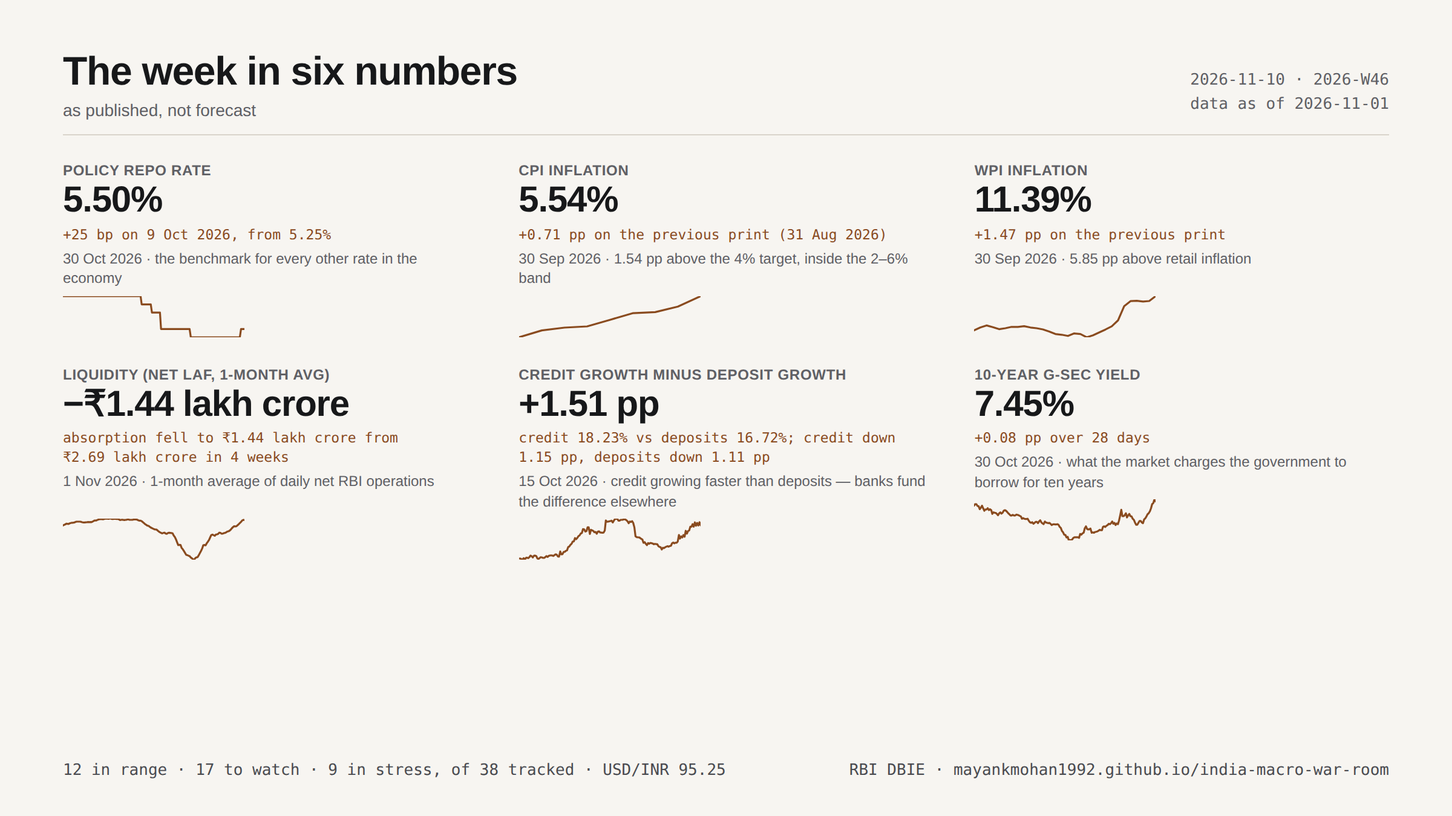
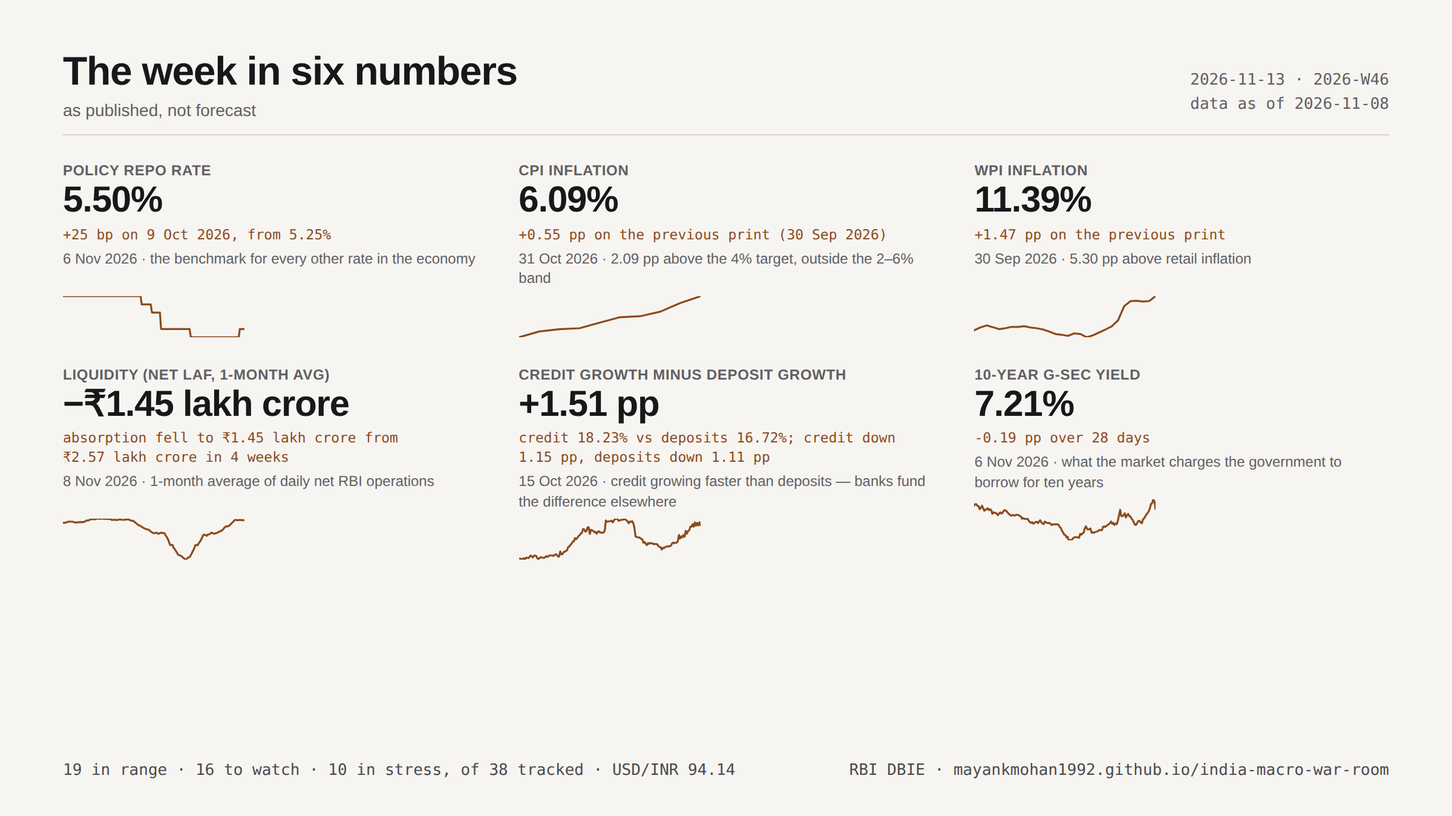
note: the week in six numbers (2026-W46)

diff --git a/notes/2026-W46.card.html b/notes/2026-W46.card.html
@@ -19,10 +19,10 @@
 </style>
 <div class="top">
   <h1>The week in six numbers<span class="sub">as published, not forecast</span></h1>
-  <div class="meta">2026-11-10 · 2026-W46<br>data as of 2026-11-01</div>
+  <div class="meta">2026-11-13 · 2026-W46<br>data as of 2026-11-08</div>
 </div>
-<div class="grid"><div class="cell"><div class="k">Policy repo rate</div><div class="v">5.50%</div><div class="d">+25 bp on 9 Oct 2026, from 5.25%</div><div class="o">30 Oct 2026 · the benchmark for every other rate in the economy</div><svg viewBox="0 0 150 34" width="150" height="34" class="spark" aria-hidden="true"><path d="M0.0 0.0 L0.9 0.0 L1.9 0.0 L2.8 0.0 L3.8 0.0 L4.7 0.0 L5.7 0.0 L6.6 0.0 L7.5 0.0 L8.5 0.0 L9.4 0.0 L10.4 0.0 L11.3 0.0 L12.3 0.0 L13.2 0.0 L14.2 0.0 L15.1 0.0 L16.0 0.0 L17.0 0.0 L17.9 0.0 L18.9 0.0 L19.8 0.0 L20.8 0.0 L21.7 0.0 L22.6 0.0 L23.6 0.0 L24.5 0.0 L25.5 0.0 L26.4 0.0 L27.4 0.0 L28.3 0.0 L29.2 0.0 L30.2 0.0 L31.1 0.0 L32.1 0.0 L33.0 0.0 L34.0 0.0 L34.9 0.0 L35.8 0.0 L36.8 0.0 L37.7 0.0 L38.7 0.0 L39.6 0.0 L40.6 0.0 L41.5 0.0 L42.5 0.0 L43.4 0.0 L44.3 0.0 L45.3 0.0 L46.2 0.0 L47.2 0.0 L48.1 0.0 L49.1 0.0 L50.0 0.0 L50.9 0.0 L51.9 0.0 L52.8 0.0 L53.8 0.0 L54.7 0.0 L55.7 0.0 L56.6 0.0 L57.5 0.0 L58.5 0.0 L59.4 0.0 L60.4 0.0 L61.3 0.0 L62.3 0.0 L63.2 0.0 L64.2 0.0 L65.1 6.8 L66.0 6.8 L67.0 6.8 L67.9 6.8 L68.9 6.8 L69.8 6.8 L70.8 6.8 L71.7 6.8 L72.6 6.8 L73.6 13.6 L74.5 13.6 L75.5 13.6 L76.4 13.6 L77.4 13.6 L78.3 13.6 L79.2 13.6 L80.2 13.6 L81.1 27.2 L82.1 27.2 L83.0 27.2 L84.0 27.2 L84.9 27.2 L85.8 27.2 L86.8 27.2 L87.7 27.2 L88.7 27.2 L89.6 27.2 L90.6 27.2 L91.5 27.2 L92.5 27.2 L93.4 27.2 L94.3 27.2 L95.3 27.2 L96.2 27.2 L97.2 27.2 L98.1 27.2 L99.1 27.2 L100.0 27.2 L100.9 27.2 L101.9 27.2 L102.8 27.2 L103.8 27.2 L104.7 27.2 L105.7 34.0 L106.6 34.0 L107.5 34.0 L108.5 34.0 L109.4 34.0 L110.4 34.0 L111.3 34.0 L112.3 34.0 L113.2 34.0 L114.2 34.0 L115.1 34.0 L116.0 34.0 L117.0 34.0 L117.9 34.0 L118.9 34.0 L119.8 34.0 L120.8 34.0 L121.7 34.0 L122.6 34.0 L123.6 34.0 L124.5 34.0 L125.5 34.0 L126.4 34.0 L127.4 34.0 L128.3 34.0 L129.2 34.0 L130.2 34.0 L131.1 34.0 L132.1 34.0 L133.0 34.0 L134.0 34.0 L134.9 34.0 L135.8 34.0 L136.8 34.0 L137.7 34.0 L138.7 34.0 L139.6 34.0 L140.6 34.0 L141.5 34.0 L142.5 34.0 L143.4 34.0 L144.3 34.0 L145.3 34.0 L146.2 34.0 L147.2 27.2 L148.1 27.2 L149.1 27.2 L150.0 27.2" fill="none" stroke="currentColor" stroke-width="1.6" stroke-linejoin="round" stroke-linecap="round"/></svg></div><div class="cell"><div class="k">CPI inflation</div><div class="v">5.54%</div><div class="d">+0.71 pp on the previous print (31 Aug 2026)</div><div class="o">30 Sep 2026 · 1.54 pp above the 4% target, inside the <span class="nw">2–6%</span> band</div><svg viewBox="0 0 150 34" width="150" height="34" class="spark" aria-hidden="true"><path d="M0.0 34.0 L18.8 28.3 L37.5 26.0 L56.2 25.0 L75.0 19.6 L93.8 14.1 L112.5 13.2 L131.2 8.6 L150.0 0.0" fill="none" stroke="currentColor" stroke-width="1.6" stroke-linejoin="round" stroke-linecap="round"/></svg></div><div class="cell"><div class="k">WPI inflation</div><div class="v">11.39%</div><div class="d">+1.47 pp on the previous print</div><div class="o">30 Sep 2026 · 5.85 pp above retail inflation</div><svg viewBox="0 0 150 34" width="150" height="34" class="spark" aria-hidden="true"><path d="M0.0 28.3 L5.2 25.9 L10.3 24.2 L15.5 25.6 L20.7 27.3 L25.9 26.5 L31.0 25.4 L36.2 25.4 L41.4 24.8 L46.6 25.9 L51.7 26.5 L56.9 27.5 L62.1 29.2 L67.2 31.3 L72.4 31.9 L77.6 32.9 L82.8 30.8 L87.9 31.3 L93.1 34.0 L98.3 32.4 L103.4 30.0 L108.6 27.6 L113.8 24.9 L119.0 20.0 L124.1 8.2 L129.3 4.1 L134.5 3.8 L139.7 4.4 L144.8 4.0 L150.0 0.0" fill="none" stroke="currentColor" stroke-width="1.6" stroke-linejoin="round" stroke-linecap="round"/></svg></div><div class="cell"><div class="k">Liquidity (net LAF, 1-month avg)</div><div class="v">−₹1.44 lakh crore</div><div class="d">absorption fell to <span class="nw">₹1.44 lakh crore</span> from <span class="nw">₹2.69 lakh crore</span> in 4 weeks</div><div class="o">1 Nov 2026 · 1-month average of daily net RBI operations</div><svg viewBox="0 0 150 34" width="150" height="34" class="spark" aria-hidden="true"><path d="M0.0 5.7 L0.9 5.2 L1.9 4.8 L2.8 4.2 L3.8 4.3 L4.7 4.4 L5.7 3.9 L6.6 3.6 L7.5 3.4 L8.5 3.4 L9.4 3.2 L10.4 2.8 L11.3 2.5 L12.3 2.5 L13.2 2.5 L14.2 2.5 L15.1 2.7 L16.0 3.0 L17.0 3.2 L17.9 3.2 L18.9 3.1 L19.8 3.0 L20.8 2.8 L21.7 2.9 L22.6 2.8 L23.6 2.9 L24.5 2.5 L25.5 1.9 L26.4 1.5 L27.4 1.6 L28.3 1.2 L29.2 0.8 L30.2 0.5 L31.1 0.4 L32.1 0.4 L33.0 0.6 L34.0 0.3 L34.9 0.1 L35.8 0.0 L36.8 0.1 L37.7 0.2 L38.7 0.0 L39.6 0.0 L40.6 0.3 L41.5 0.3 L42.5 0.1 L43.4 0.2 L44.3 0.3 L45.3 0.3 L46.2 0.6 L47.2 1.2 L48.1 1.0 L49.1 0.9 L50.0 1.1 L50.9 1.2 L51.9 1.0 L52.8 0.9 L53.8 0.5 L54.7 0.9 L55.7 1.0 L56.6 1.0 L57.5 1.0 L58.5 0.7 L59.4 0.7 L60.4 0.7 L61.3 0.9 L62.3 1.4 L63.2 1.7 L64.2 1.7 L65.1 2.1 L66.0 2.9 L67.0 3.7 L67.9 4.6 L68.9 5.2 L69.8 5.8 L70.8 6.0 L71.7 6.7 L72.6 7.4 L73.6 7.9 L74.5 8.3 L75.5 8.8 L76.4 9.0 L77.4 9.1 L78.3 9.9 L79.2 10.7 L80.2 11.3 L81.1 11.8 L82.1 12.2 L83.0 11.8 L84.0 11.6 L84.9 12.4 L85.8 12.6 L86.8 11.9 L87.7 11.7 L88.7 11.8 L89.6 11.9 L90.6 12.1 L91.5 13.9 L92.5 15.2 L93.4 17.1 L94.3 19.4 L95.3 21.9 L96.2 21.7 L97.2 21.8 L98.1 24.2 L99.1 25.4 L100.0 26.8 L100.9 28.3 L101.9 30.0 L102.8 30.2 L103.8 30.7 L104.7 31.0 L105.7 32.2 L106.6 32.8 L107.5 33.6 L108.5 34.0 L109.4 32.7 L110.4 32.0 L111.3 31.9 L112.3 30.2 L113.2 28.5 L114.2 26.6 L115.1 24.7 L116.0 22.0 L117.0 21.8 L117.9 22.1 L118.9 20.3 L119.8 19.1 L120.8 17.6 L121.7 15.5 L122.6 13.6 L123.6 13.2 L124.5 13.7 L125.5 14.2 L126.4 13.2 L127.4 13.0 L128.3 12.6 L129.2 11.6 L130.2 11.8 L131.1 12.5 L132.1 12.4 L133.0 12.0 L134.0 11.8 L134.9 11.4 L135.8 10.7 L136.8 10.5 L137.7 10.0 L138.7 9.1 L139.6 8.0 L140.6 7.0 L141.5 6.3 L142.5 6.4 L143.4 6.3 L144.3 5.5 L145.3 4.6 L146.2 3.7 L147.2 2.7 L148.1 1.6 L149.1 1.0 L150.0 1.2" fill="none" stroke="currentColor" stroke-width="1.6" stroke-linejoin="round" stroke-linecap="round"/></svg></div><div class="cell"><div class="k">Credit growth minus deposit growth</div><div class="v">+1.51 pp</div><div class="d">credit 18.23% vs deposits 16.72%; credit down 1.15 pp, deposits down 1.11 pp</div><div class="o">15 Oct 2026 · credit growing faster than deposits — banks fund the difference elsewhere</div><svg viewBox="0 0 150 34" width="150" height="34" class="spark" aria-hidden="true"><path d="M0.0 33.0 L0.9 33.0 L1.9 33.5 L2.8 33.8 L3.8 32.7 L4.7 34.0 L5.7 32.4 L6.6 32.3 L7.5 32.7 L8.5 31.9 L9.4 30.6 L10.4 31.1 L11.3 32.1 L12.3 30.7 L13.2 30.6 L14.2 31.0 L15.1 32.9 L16.0 33.4 L17.0 32.6 L17.9 31.9 L18.9 32.1 L19.8 32.5 L20.8 32.4 L21.7 31.8 L22.6 31.0 L23.6 31.7 L24.5 30.8 L25.5 30.5 L26.4 30.4 L27.4 30.5 L28.3 30.9 L29.2 30.2 L30.2 29.5 L31.1 29.9 L32.1 31.3 L33.0 31.5 L34.0 27.2 L34.9 29.6 L35.8 29.5 L36.8 27.6 L37.7 27.5 L38.7 26.6 L39.6 26.3 L40.6 23.5 L41.5 23.1 L42.5 21.6 L43.4 20.8 L44.3 19.0 L45.3 18.8 L46.2 16.1 L47.2 17.0 L48.1 16.0 L49.1 14.4 L50.0 13.9 L50.9 12.4 L51.9 11.9 L52.8 8.7 L53.8 8.9 L54.7 10.7 L55.7 10.3 L56.6 7.2 L57.5 7.2 L58.5 12.7 L59.4 9.3 L60.4 9.7 L61.3 10.2 L62.3 11.3 L63.2 11.0 L64.2 12.5 L65.1 10.8 L66.0 10.5 L67.0 11.5 L67.9 11.6 L68.9 11.7 L69.8 11.6 L70.8 9.9 L71.7 1.5 L72.6 2.6 L73.6 2.5 L74.5 2.2 L75.5 2.0 L76.4 1.7 L77.4 3.2 L78.3 1.7 L79.2 0.4 L80.2 0.2 L81.1 0.0 L82.1 1.7 L83.0 1.7 L84.0 1.0 L84.9 1.0 L85.8 0.9 L86.8 0.4 L87.7 0.7 L88.7 1.3 L89.6 2.2 L90.6 3.8 L91.5 2.4 L92.5 2.8 L93.4 2.1 L94.3 3.5 L95.3 7.3 L96.2 14.6 L97.2 15.3 L98.1 15.5 L99.1 15.5 L100.0 16.0 L100.9 16.7 L101.9 17.3 L102.8 20.0 L103.8 19.5 L104.7 20.8 L105.7 21.9 L106.6 20.2 L107.5 20.8 L108.5 20.1 L109.4 20.3 L110.4 20.6 L111.3 21.2 L112.3 20.9 L113.2 21.1 L114.2 21.2 L115.1 22.7 L116.0 23.4 L117.0 23.7 L117.9 25.5 L118.9 24.1 L119.8 24.4 L120.8 23.6 L121.7 23.2 L122.6 22.8 L123.6 23.2 L124.5 22.7 L125.5 22.5 L126.4 20.4 L127.4 19.8 L128.3 20.4 L129.2 19.9 L130.2 20.0 L131.1 19.0 L132.1 13.5 L133.0 16.5 L134.0 14.7 L134.9 15.6 L135.8 13.6 L136.8 15.0 L137.7 10.1 L138.7 12.4 L139.6 10.3 L140.6 9.8 L141.5 6.7 L142.5 6.7 L143.4 4.6 L144.3 6.7 L145.3 3.1 L146.2 5.9 L147.2 3.6 L148.1 5.7 L149.1 3.0 L150.0 5.5" fill="none" stroke="currentColor" stroke-width="1.6" stroke-linejoin="round" stroke-linecap="round"/></svg></div><div class="cell"><div class="k">10-year G-sec yield</div><div class="v">7.45%</div><div class="d">+0.08 pp over 28 days</div><div class="o">30 Oct 2026 · what the market charges the government to borrow for ten years</div><svg viewBox="0 0 150 34" width="150" height="34" class="spark" aria-hidden="true"><path d="M0.0 5.3 L0.9 4.0 L1.9 4.0 L2.8 5.5 L3.8 5.8 L4.7 8.2 L5.7 6.9 L6.6 5.3 L7.5 7.4 L8.5 9.5 L9.4 8.4 L10.4 8.4 L11.3 7.4 L12.3 9.0 L13.2 8.2 L14.2 9.0 L15.1 12.1 L16.0 10.8 L17.0 11.1 L17.9 11.3 L18.9 12.1 L19.8 13.2 L20.8 11.6 L21.7 10.8 L22.6 11.9 L23.6 11.1 L24.5 9.5 L25.5 9.0 L26.4 9.5 L27.4 10.5 L28.3 11.6 L29.2 12.4 L30.2 13.4 L31.1 13.4 L32.1 12.9 L33.0 13.4 L34.0 13.4 L34.9 12.7 L35.8 12.9 L36.8 13.2 L37.7 13.7 L38.7 14.2 L39.6 16.1 L40.6 15.6 L41.5 16.1 L42.5 16.3 L43.4 16.3 L44.3 16.1 L45.3 17.9 L46.2 19.0 L47.2 19.5 L48.1 19.0 L49.1 20.3 L50.0 19.5 L50.9 18.7 L51.9 18.7 L52.8 19.8 L53.8 18.2 L54.7 17.4 L55.7 19.2 L56.6 20.0 L57.5 20.6 L58.5 18.4 L59.4 19.2 L60.4 19.5 L61.3 19.8 L62.3 19.5 L63.2 20.3 L64.2 21.3 L65.1 20.8 L66.0 20.6 L67.0 20.8 L67.9 20.8 L68.9 20.6 L69.8 21.1 L70.8 22.9 L71.7 23.7 L72.6 26.1 L73.6 27.4 L74.5 29.3 L75.5 29.5 L76.4 31.6 L77.4 31.1 L78.3 34.0 L79.2 33.7 L80.2 34.0 L81.1 33.2 L82.1 31.9 L83.0 31.4 L84.0 31.4 L84.9 31.4 L85.8 31.4 L86.8 31.9 L87.7 28.7 L88.7 29.3 L89.6 28.2 L90.6 27.7 L91.5 24.0 L92.5 22.4 L93.4 24.5 L94.3 25.0 L95.3 24.8 L96.2 24.2 L97.2 27.7 L98.1 27.4 L99.1 27.7 L100.0 27.1 L100.9 26.9 L101.9 26.6 L102.8 26.1 L103.8 25.3 L104.7 25.6 L105.7 25.6 L106.6 22.7 L107.5 22.4 L108.5 22.9 L109.4 21.9 L110.4 21.3 L111.3 20.3 L112.3 20.6 L113.2 19.8 L114.2 18.4 L115.1 20.3 L116.0 19.5 L117.0 21.3 L117.9 20.0 L118.9 20.6 L119.8 17.7 L120.8 13.2 L121.7 8.7 L122.6 14.0 L123.6 14.0 L124.5 13.2 L125.5 11.6 L126.4 15.0 L127.4 13.2 L128.3 12.1 L129.2 14.0 L130.2 14.2 L131.1 16.1 L132.1 17.1 L133.0 19.2 L134.0 21.1 L134.9 21.1 L135.8 19.5 L136.8 17.9 L137.7 17.9 L138.7 19.2 L139.6 19.8 L140.6 16.6 L141.5 15.8 L142.5 14.2 L143.4 12.4 L144.3 11.6 L145.3 10.0 L146.2 7.6 L147.2 4.0 L148.1 3.2 L149.1 0.0 L150.0 1.8" fill="none" stroke="currentColor" stroke-width="1.6" stroke-linejoin="round" stroke-linecap="round"/></svg></div></div>
+<div class="grid"><div class="cell"><div class="k">Policy repo rate</div><div class="v">5.50%</div><div class="d">+25 bp on 9 Oct 2026, from 5.25%</div><div class="o">6 Nov 2026 · the benchmark for every other rate in the economy</div><svg viewBox="0 0 150 34" width="150" height="34" class="spark" aria-hidden="true"><path d="M0.0 0.0 L0.9 0.0 L1.9 0.0 L2.8 0.0 L3.8 0.0 L4.7 0.0 L5.7 0.0 L6.6 0.0 L7.5 0.0 L8.5 0.0 L9.4 0.0 L10.4 0.0 L11.3 0.0 L12.3 0.0 L13.2 0.0 L14.2 0.0 L15.1 0.0 L16.0 0.0 L17.0 0.0 L17.9 0.0 L18.9 0.0 L19.8 0.0 L20.8 0.0 L21.7 0.0 L22.6 0.0 L23.6 0.0 L24.5 0.0 L25.5 0.0 L26.4 0.0 L27.4 0.0 L28.3 0.0 L29.2 0.0 L30.2 0.0 L31.1 0.0 L32.1 0.0 L33.0 0.0 L34.0 0.0 L34.9 0.0 L35.8 0.0 L36.8 0.0 L37.7 0.0 L38.7 0.0 L39.6 0.0 L40.6 0.0 L41.5 0.0 L42.5 0.0 L43.4 0.0 L44.3 0.0 L45.3 0.0 L46.2 0.0 L47.2 0.0 L48.1 0.0 L49.1 0.0 L50.0 0.0 L50.9 0.0 L51.9 0.0 L52.8 0.0 L53.8 0.0 L54.7 0.0 L55.7 0.0 L56.6 0.0 L57.5 0.0 L58.5 0.0 L59.4 0.0 L60.4 0.0 L61.3 0.0 L62.3 0.0 L63.2 0.0 L64.2 0.0 L65.1 6.8 L66.0 6.8 L67.0 6.8 L67.9 6.8 L68.9 6.8 L69.8 6.8 L70.8 6.8 L71.7 6.8 L72.6 6.8 L73.6 13.6 L74.5 13.6 L75.5 13.6 L76.4 13.6 L77.4 13.6 L78.3 13.6 L79.2 13.6 L80.2 13.6 L81.1 27.2 L82.1 27.2 L83.0 27.2 L84.0 27.2 L84.9 27.2 L85.8 27.2 L86.8 27.2 L87.7 27.2 L88.7 27.2 L89.6 27.2 L90.6 27.2 L91.5 27.2 L92.5 27.2 L93.4 27.2 L94.3 27.2 L95.3 27.2 L96.2 27.2 L97.2 27.2 L98.1 27.2 L99.1 27.2 L100.0 27.2 L100.9 27.2 L101.9 27.2 L102.8 27.2 L103.8 27.2 L104.7 27.2 L105.7 34.0 L106.6 34.0 L107.5 34.0 L108.5 34.0 L109.4 34.0 L110.4 34.0 L111.3 34.0 L112.3 34.0 L113.2 34.0 L114.2 34.0 L115.1 34.0 L116.0 34.0 L117.0 34.0 L117.9 34.0 L118.9 34.0 L119.8 34.0 L120.8 34.0 L121.7 34.0 L122.6 34.0 L123.6 34.0 L124.5 34.0 L125.5 34.0 L126.4 34.0 L127.4 34.0 L128.3 34.0 L129.2 34.0 L130.2 34.0 L131.1 34.0 L132.1 34.0 L133.0 34.0 L134.0 34.0 L134.9 34.0 L135.8 34.0 L136.8 34.0 L137.7 34.0 L138.7 34.0 L139.6 34.0 L140.6 34.0 L141.5 34.0 L142.5 34.0 L143.4 34.0 L144.3 34.0 L145.3 34.0 L146.2 27.2 L147.2 27.2 L148.1 27.2 L149.1 27.2 L150.0 27.2" fill="none" stroke="currentColor" stroke-width="1.6" stroke-linejoin="round" stroke-linecap="round"/></svg></div><div class="cell"><div class="k">CPI inflation</div><div class="v">6.09%</div><div class="d">+0.55 pp on the previous print (30 Sep 2026)</div><div class="o">31 Oct 2026 · 2.09 pp above the 4% target, outside the <span class="nw">2–6%</span> band</div><svg viewBox="0 0 150 34" width="150" height="34" class="spark" aria-hidden="true"><path d="M0.0 34.0 L16.7 29.2 L33.3 27.3 L50.0 26.5 L66.7 21.9 L83.3 17.4 L100.0 16.6 L116.7 12.8 L133.3 5.6 L150.0 0.0" fill="none" stroke="currentColor" stroke-width="1.6" stroke-linejoin="round" stroke-linecap="round"/></svg></div><div class="cell"><div class="k">WPI inflation</div><div class="v">11.39%</div><div class="d">+1.47 pp on the previous print</div><div class="o">30 Sep 2026 · 5.30 pp above retail inflation</div><svg viewBox="0 0 150 34" width="150" height="34" class="spark" aria-hidden="true"><path d="M0.0 28.3 L5.2 25.9 L10.3 24.2 L15.5 25.6 L20.7 27.3 L25.9 26.5 L31.0 25.4 L36.2 25.4 L41.4 24.8 L46.6 25.9 L51.7 26.5 L56.9 27.5 L62.1 29.2 L67.2 31.3 L72.4 31.9 L77.6 32.9 L82.8 30.8 L87.9 31.3 L93.1 34.0 L98.3 32.4 L103.4 30.0 L108.6 27.6 L113.8 24.9 L119.0 20.0 L124.1 8.2 L129.3 4.1 L134.5 3.8 L139.7 4.4 L144.8 4.0 L150.0 0.0" fill="none" stroke="currentColor" stroke-width="1.6" stroke-linejoin="round" stroke-linecap="round"/></svg></div><div class="cell"><div class="k">Liquidity (net LAF, 1-month avg)</div><div class="v">−₹1.45 lakh crore</div><div class="d">absorption fell to <span class="nw">₹1.45 lakh crore</span> from <span class="nw">₹2.57 lakh crore</span> in 4 weeks</div><div class="o">8 Nov 2026 · 1-month average of daily net RBI operations</div><svg viewBox="0 0 150 34" width="150" height="34" class="spark" aria-hidden="true"><path d="M0.0 3.6 L0.9 3.4 L1.9 3.4 L2.8 3.2 L3.8 2.8 L4.7 2.5 L5.7 2.5 L6.6 2.5 L7.5 2.5 L8.5 2.7 L9.4 3.0 L10.4 3.2 L11.3 3.2 L12.3 3.1 L13.2 3.0 L14.2 2.8 L15.1 2.9 L16.0 2.8 L17.0 2.9 L17.9 2.5 L18.9 1.9 L19.8 1.5 L20.8 1.6 L21.7 1.2 L22.6 0.8 L23.6 0.5 L24.5 0.4 L25.5 0.4 L26.4 0.6 L27.4 0.3 L28.3 0.1 L29.2 0.0 L30.2 0.1 L31.1 0.2 L32.1 0.0 L33.0 0.0 L34.0 0.3 L34.9 0.3 L35.8 0.1 L36.8 0.2 L37.7 0.3 L38.7 0.3 L39.6 0.6 L40.6 1.2 L41.5 1.0 L42.5 0.9 L43.4 1.1 L44.3 1.2 L45.3 1.0 L46.2 0.9 L47.2 0.5 L48.1 0.9 L49.1 1.0 L50.0 1.0 L50.9 1.0 L51.9 0.7 L52.8 0.7 L53.8 0.7 L54.7 0.9 L55.7 1.4 L56.6 1.7 L57.5 1.7 L58.5 2.1 L59.4 2.9 L60.4 3.7 L61.3 4.6 L62.3 5.2 L63.2 5.8 L64.2 6.0 L65.1 6.7 L66.0 7.4 L67.0 7.9 L67.9 8.3 L68.9 8.8 L69.8 9.0 L70.8 9.1 L71.7 9.9 L72.6 10.7 L73.6 11.3 L74.5 11.8 L75.5 12.2 L76.4 11.8 L77.4 11.6 L78.3 12.4 L79.2 12.6 L80.2 11.9 L81.1 11.7 L82.1 11.8 L83.0 11.9 L84.0 12.1 L84.9 13.9 L85.8 15.2 L86.8 17.1 L87.7 19.4 L88.7 21.9 L89.6 21.7 L90.6 21.8 L91.5 24.2 L92.5 25.4 L93.4 26.8 L94.3 28.3 L95.3 30.0 L96.2 30.2 L97.2 30.7 L98.1 31.0 L99.1 32.2 L100.0 32.8 L100.9 33.6 L101.9 34.0 L102.8 32.7 L103.8 32.0 L104.7 31.9 L105.7 30.2 L106.6 28.5 L107.5 26.6 L108.5 24.7 L109.4 22.0 L110.4 21.8 L111.3 22.1 L112.3 20.3 L113.2 19.1 L114.2 17.6 L115.1 15.5 L116.0 13.6 L117.0 13.2 L117.9 13.7 L118.9 14.2 L119.8 13.2 L120.8 13.0 L121.7 12.6 L122.6 11.6 L123.6 11.8 L124.5 12.5 L125.5 12.4 L126.4 12.0 L127.4 11.8 L128.3 11.4 L129.2 10.7 L130.2 10.5 L131.1 10.0 L132.1 9.1 L133.0 8.0 L134.0 7.0 L134.9 6.3 L135.8 6.4 L136.8 6.3 L137.7 5.5 L138.7 4.6 L139.6 3.7 L140.6 2.7 L141.5 1.6 L142.5 1.0 L143.4 1.2 L144.3 1.4 L145.3 1.2 L146.2 1.1 L147.2 1.2 L148.1 1.3 L149.1 1.3 L150.0 1.3" fill="none" stroke="currentColor" stroke-width="1.6" stroke-linejoin="round" stroke-linecap="round"/></svg></div><div class="cell"><div class="k">Credit growth minus deposit growth</div><div class="v">+1.51 pp</div><div class="d">credit 18.23% vs deposits 16.72%; credit down 1.15 pp, deposits down 1.11 pp</div><div class="o">15 Oct 2026 · credit growing faster than deposits — banks fund the difference elsewhere</div><svg viewBox="0 0 150 34" width="150" height="34" class="spark" aria-hidden="true"><path d="M0.0 33.0 L0.9 33.0 L1.9 33.5 L2.8 33.8 L3.8 32.7 L4.7 34.0 L5.7 32.4 L6.6 32.3 L7.5 32.7 L8.5 31.9 L9.4 30.6 L10.4 31.1 L11.3 32.1 L12.3 30.7 L13.2 30.6 L14.2 31.0 L15.1 32.9 L16.0 33.4 L17.0 32.6 L17.9 31.9 L18.9 32.1 L19.8 32.5 L20.8 32.4 L21.7 31.8 L22.6 31.0 L23.6 31.7 L24.5 30.8 L25.5 30.5 L26.4 30.4 L27.4 30.5 L28.3 30.9 L29.2 30.2 L30.2 29.5 L31.1 29.9 L32.1 31.3 L33.0 31.5 L34.0 27.2 L34.9 29.6 L35.8 29.5 L36.8 27.6 L37.7 27.5 L38.7 26.6 L39.6 26.3 L40.6 23.5 L41.5 23.1 L42.5 21.6 L43.4 20.8 L44.3 19.0 L45.3 18.8 L46.2 16.1 L47.2 17.0 L48.1 16.0 L49.1 14.4 L50.0 13.9 L50.9 12.4 L51.9 11.9 L52.8 8.7 L53.8 8.9 L54.7 10.7 L55.7 10.3 L56.6 7.2 L57.5 7.2 L58.5 12.7 L59.4 9.3 L60.4 9.7 L61.3 10.2 L62.3 11.3 L63.2 11.0 L64.2 12.5 L65.1 10.8 L66.0 10.5 L67.0 11.5 L67.9 11.6 L68.9 11.7 L69.8 11.6 L70.8 9.9 L71.7 1.5 L72.6 2.6 L73.6 2.5 L74.5 2.2 L75.5 2.0 L76.4 1.7 L77.4 3.2 L78.3 1.7 L79.2 0.4 L80.2 0.2 L81.1 0.0 L82.1 1.7 L83.0 1.7 L84.0 1.0 L84.9 1.0 L85.8 0.9 L86.8 0.4 L87.7 0.7 L88.7 1.3 L89.6 2.2 L90.6 3.8 L91.5 2.4 L92.5 2.8 L93.4 2.1 L94.3 3.5 L95.3 7.3 L96.2 14.6 L97.2 15.3 L98.1 15.5 L99.1 15.5 L100.0 16.0 L100.9 16.7 L101.9 17.3 L102.8 20.0 L103.8 19.5 L104.7 20.8 L105.7 21.9 L106.6 20.2 L107.5 20.8 L108.5 20.1 L109.4 20.3 L110.4 20.6 L111.3 21.2 L112.3 20.9 L113.2 21.1 L114.2 21.2 L115.1 22.7 L116.0 23.4 L117.0 23.7 L117.9 25.5 L118.9 24.1 L119.8 24.4 L120.8 23.6 L121.7 23.2 L122.6 22.8 L123.6 23.2 L124.5 22.7 L125.5 22.5 L126.4 20.4 L127.4 19.8 L128.3 20.4 L129.2 19.9 L130.2 20.0 L131.1 19.0 L132.1 13.5 L133.0 16.5 L134.0 14.7 L134.9 15.6 L135.8 13.6 L136.8 15.0 L137.7 10.1 L138.7 12.4 L139.6 10.3 L140.6 9.8 L141.5 6.7 L142.5 6.7 L143.4 4.6 L144.3 6.7 L145.3 3.1 L146.2 5.9 L147.2 3.6 L148.1 5.7 L149.1 3.0 L150.0 5.5" fill="none" stroke="currentColor" stroke-width="1.6" stroke-linejoin="round" stroke-linecap="round"/></svg></div><div class="cell"><div class="k">10-year G-sec yield</div><div class="v">7.21%</div><div class="d">-0.19 pp over 28 days</div><div class="o">6 Nov 2026 · what the market charges the government to borrow for ten years</div><svg viewBox="0 0 150 34" width="150" height="34" class="spark" aria-hidden="true"><path d="M0.0 5.3 L0.9 4.0 L1.9 4.0 L2.8 5.5 L3.8 5.8 L4.7 8.2 L5.7 6.9 L6.6 5.3 L7.5 7.4 L8.5 9.5 L9.4 8.4 L10.4 8.4 L11.3 7.4 L12.3 9.0 L13.2 8.2 L14.2 9.0 L15.1 12.1 L16.0 10.8 L17.0 11.1 L17.9 11.3 L18.9 12.1 L19.8 13.2 L20.8 11.6 L21.7 10.8 L22.6 11.9 L23.6 11.1 L24.5 9.5 L25.5 9.0 L26.4 9.5 L27.4 10.5 L28.3 11.6 L29.2 12.4 L30.2 13.4 L31.1 13.4 L32.1 12.9 L33.0 13.4 L34.0 13.4 L34.9 12.7 L35.8 12.9 L36.8 13.2 L37.7 13.7 L38.7 14.2 L39.6 16.1 L40.6 15.6 L41.5 16.1 L42.5 16.3 L43.4 16.3 L44.3 16.1 L45.3 17.9 L46.2 19.0 L47.2 19.5 L48.1 19.0 L49.1 20.3 L50.0 19.5 L50.9 18.7 L51.9 18.7 L52.8 19.8 L53.8 18.2 L54.7 17.4 L55.7 19.2 L56.6 20.0 L57.5 20.6 L58.5 18.4 L59.4 19.2 L60.4 19.5 L61.3 19.8 L62.3 19.5 L63.2 20.3 L64.2 21.3 L65.1 20.8 L66.0 20.6 L67.0 20.8 L67.9 20.8 L68.9 20.6 L69.8 21.1 L70.8 22.9 L71.7 23.7 L72.6 26.1 L73.6 27.4 L74.5 29.3 L75.5 29.5 L76.4 31.6 L77.4 31.1 L78.3 34.0 L79.2 33.7 L80.2 34.0 L81.1 33.2 L82.1 31.9 L83.0 31.4 L84.0 31.4 L84.9 31.4 L85.8 31.4 L86.8 31.9 L87.7 28.7 L88.7 29.3 L89.6 28.2 L90.6 27.7 L91.5 24.0 L92.5 22.4 L93.4 24.5 L94.3 25.0 L95.3 24.8 L96.2 24.2 L97.2 27.7 L98.1 27.4 L99.1 27.7 L100.0 27.1 L100.9 26.9 L101.9 26.6 L102.8 26.1 L103.8 25.3 L104.7 25.6 L105.7 25.6 L106.6 22.7 L107.5 22.4 L108.5 22.9 L109.4 21.9 L110.4 21.3 L111.3 20.6 L112.3 19.8 L113.2 18.4 L114.2 20.3 L115.1 19.5 L116.0 21.3 L117.0 20.0 L117.9 20.6 L118.9 17.7 L119.8 13.2 L120.8 8.7 L121.7 14.0 L122.6 14.0 L123.6 13.2 L124.5 11.6 L125.5 15.0 L126.4 13.2 L127.4 12.1 L128.3 14.0 L129.2 14.2 L130.2 16.1 L131.1 17.1 L132.1 19.2 L133.0 21.1 L134.0 21.1 L134.9 19.5 L135.8 17.9 L136.8 17.9 L137.7 19.2 L138.7 19.8 L139.6 16.6 L140.6 15.8 L141.5 14.2 L142.5 12.4 L143.4 11.6 L144.3 10.0 L145.3 7.6 L146.2 4.0 L147.2 3.2 L148.1 0.0 L149.1 1.8 L150.0 8.2" fill="none" stroke="currentColor" stroke-width="1.6" stroke-linejoin="round" stroke-linecap="round"/></svg></div></div>
 <div class="strip">
-  <span>12 in range · 17 to watch · 9 in stress, of 38 tracked · USD/INR 95.25</span>
+  <span>19 in range · 16 to watch · 10 in stress, of 38 tracked · USD/INR 94.14</span>
   <span>RBI DBIE · mayankmohan1992.github.io/india-macro-war-room</span>
 </div>

diff --git a/notes/2026-W46.html b/notes/2026-W46.html
@@ -33,13 +33,13 @@
   footer a{color:var(--accent);text-underline-offset:3px}
 </style></head><body><div class="wrap">
 <h1>The week in six numbers</h1>
-<p class="sub">2026-W46 · compiled 2026-11-10 · data as of 2026-11-01</p>
-<p class="counts">12 in range · 17 to watch · 9 in stress, of 38 tracked<br><span class="fine">"In range", "to watch" and "in stress" follow rules
+<p class="sub">2026-W46 · compiled 2026-11-13 · data as of 2026-11-08</p>
+<p class="counts">19 in range · 16 to watch · 10 in stress, of 38 tracked<br><span class="fine">"In range", "to watch" and "in stress" follow rules
 published with the data, not a judgement made here. Each figure below is the latest <em>published</em>
 print of that indicator, not one week's worth of it — the dates differ because the sources do.</span></p>
-<ol><li><span class="lbl">Policy repo rate</span><span class="val">5.50%</span><span class="dlt">+25 bp on 9 Oct 2026, from 5.25%</span><span class="note"><a class="src" href="../api/v1/series/repo.csv" title="the series behind this number">30 Oct 2026</a> · the benchmark for every other rate in the economy</span></li><li><span class="lbl">CPI inflation</span><span class="val">5.54%</span><span class="dlt">+0.71 pp on the previous print (31 Aug 2026)</span><span class="note"><a class="src" href="../api/v1/series/cpi.csv" title="the series behind this number">30 Sep 2026</a> · 1.54 pp above the 4% target, inside the 2–6% band</span></li><li><span class="lbl">WPI inflation</span><span class="val">11.39%</span><span class="dlt">+1.47 pp on the previous print</span><span class="note"><a class="src" href="../api/v1/series/wpi.csv" title="the series behind this number">30 Sep 2026</a> · 5.85 pp above retail inflation</span></li><li><span class="lbl">Liquidity (net LAF, 1-month avg)</span><span class="val">−₹1.44 lakh crore</span><span class="dlt">absorption fell to ₹1.44 lakh crore from ₹2.69 lakh crore in 28 days</span><span class="note"><a class="src" href="../api/v1/series/liquidity.csv" title="the series behind this number">1 Nov 2026</a> · 1-month average of daily net RBI operations</span></li><li><span class="lbl">Credit growth minus deposit growth</span><span class="val">+1.51 pp</span><span class="dlt">credit 18.23% vs deposits 16.72% on the same fortnight; credit down 1.15 pp and deposits down 1.11 pp on the previous print</span><span class="note"><a class="src" href="../api/v1/series/credit.csv" title="the series behind this number">15 Oct 2026</a> · credit growing faster than deposits — banks fund the difference elsewhere</span></li><li><span class="lbl">10-year G-sec yield</span><span class="val">7.45%</span><span class="dlt">+0.08 pp over 28 days</span><span class="note"><a class="src" href="../api/v1/series/gsec.csv" title="the series behind this number">30 Oct 2026</a> · what the market charges the government to borrow for ten years</span></li><li class="aside"><span class="lbl">Also · USD/INR</span><span class="val">95.25</span><span class="dlt">−1.36 (−1.4%) in 28 days</span><span class="note">30 Oct 2026 · rupees per US dollar, the rupee firmer on the month</span></li></ol>
+<ol><li><span class="lbl">Policy repo rate</span><span class="val">5.50%</span><span class="dlt">+25 bp on 9 Oct 2026, from 5.25%</span><span class="note"><a class="src" href="../api/v1/series/repo.csv" title="the series behind this number">6 Nov 2026</a> · the benchmark for every other rate in the economy</span></li><li><span class="lbl">CPI inflation</span><span class="val">6.09%</span><span class="dlt">+0.55 pp on the previous print (30 Sep 2026)</span><span class="note"><a class="src" href="../api/v1/series/cpi.csv" title="the series behind this number">31 Oct 2026</a> · 2.09 pp above the 4% target, outside the 2–6% band</span></li><li><span class="lbl">WPI inflation</span><span class="val">11.39%</span><span class="dlt">+1.47 pp on the previous print</span><span class="note"><a class="src" href="../api/v1/series/wpi.csv" title="the series behind this number">30 Sep 2026</a> · 5.30 pp above retail inflation</span></li><li><span class="lbl">Liquidity (net LAF, 1-month avg)</span><span class="val">−₹1.45 lakh crore</span><span class="dlt">absorption fell to ₹1.45 lakh crore from ₹2.57 lakh crore in 28 days</span><span class="note"><a class="src" href="../api/v1/series/liquidity.csv" title="the series behind this number">8 Nov 2026</a> · 1-month average of daily net RBI operations</span></li><li><span class="lbl">Credit growth minus deposit growth</span><span class="val">+1.51 pp</span><span class="dlt">credit 18.23% vs deposits 16.72% on the same fortnight; credit down 1.15 pp and deposits down 1.11 pp on the previous print</span><span class="note"><a class="src" href="../api/v1/series/credit.csv" title="the series behind this number">15 Oct 2026</a> · credit growing faster than deposits — banks fund the difference elsewhere</span></li><li><span class="lbl">10-year G-sec yield</span><span class="val">7.21%</span><span class="dlt">-0.19 pp over 28 days</span><span class="note"><a class="src" href="../api/v1/series/gsec.csv" title="the series behind this number">6 Nov 2026</a> · what the market charges the government to borrow for ten years</span></li><li class="aside"><span class="lbl">Also · USD/INR</span><span class="val">94.14</span><span class="dlt">−0.88 (−0.9%) in 28 days</span><span class="note">6 Nov 2026 · rupees per US dollar, the rupee firmer on the month</span></li></ol>
 
-<p class="fresh">Nothing here is real-time: the oldest prints this note leans on are WPI inflation (41 days); CPI inflation (41 days); Bank credit growth (26 days).</p>
+<p class="fresh">Nothing here is real-time: the oldest prints this note leans on are WPI inflation (44 days); Bank credit growth (29 days); CPI inflation (13 days).</p>
 <p class="fresh">A negative net LAF figure means the RBI is <em>absorbing</em> liquidity from the banking
 system; the sign carries the direction. Definitions for every term are in the
 <a href="https://github.com/mayankmohan1992/india-macro-war-room/blob/main/docs/DATA_DICTIONARY.md">data
@@ -48,6 +48,6 @@ dictionary</a>.</p>
   Every figure above is traceable to an RBI table: the
   <a href="../">dashboard</a> draws the series, the <a href="../api/v1/">API</a> serves it, and the
   build fails rather than publish a short table.<br>
-  <code>dataset_sha256 6c20b6dea7f5…</code> · source: RBI DBIE · MIT
+  <code>dataset_sha256 601327549ff6…</code> · source: RBI DBIE · MIT
 </footer>
 </div></body></html>

diff --git a/notes/2026-W46.md b/notes/2026-W46.md
@@ -1,22 +1,22 @@
 # The week in six numbers — 2026-W46
 
-*Six Indian macro indicators, as published rather than forecast. Data as of 2026-11-01; note compiled 2026-11-10.*
+*Six Indian macro indicators, as published rather than forecast. Data as of 2026-11-08; note compiled 2026-11-13.*
 
-Of the 38 indicators this project tracks, **12 are in range, 17 need watching and 9 are in stress** (rules are published with the data).
+Of the 38 indicators this project tracks, **19 are in range, 16 need watching and 10 are in stress** (rules are published with the data).
 
 **The six.** 6 of 6 slots filled.
 
-1. **Policy repo rate — 5.50%** (30 Oct 2026). +25 bp on 9 Oct 2026, from 5.25%; the benchmark for every other rate in the economy.
-2. **CPI inflation — 5.54%** (30 Sep 2026). +0.71 pp on the previous print (31 Aug 2026); 1.54 pp above the 4% target, inside the 2–6% band.
-3. **WPI inflation — 11.39%** (30 Sep 2026). +1.47 pp on the previous print; 5.85 pp above retail inflation.
-4. **Liquidity (net LAF, 1-month avg) — −₹1.44 lakh crore** (1 Nov 2026). Absorption fell to ₹1.44 lakh crore from ₹2.69 lakh crore in 28 days; 1-month average of daily net RBI operations.
+1. **Policy repo rate — 5.50%** (6 Nov 2026). +25 bp on 9 Oct 2026, from 5.25%; the benchmark for every other rate in the economy.
+2. **CPI inflation — 6.09%** (31 Oct 2026). +0.55 pp on the previous print (30 Sep 2026); 2.09 pp above the 4% target, outside the 2–6% band.
+3. **WPI inflation — 11.39%** (30 Sep 2026). +1.47 pp on the previous print; 5.30 pp above retail inflation.
+4. **Liquidity (net LAF, 1-month avg) — −₹1.45 lakh crore** (8 Nov 2026). Absorption fell to ₹1.45 lakh crore from ₹2.57 lakh crore in 28 days; 1-month average of daily net RBI operations.
 5. **Credit growth minus deposit growth — +1.51 pp** (15 Oct 2026). Credit 18.23% vs deposits 16.72% on the same fortnight; credit down 1.15 pp and deposits down 1.11 pp on the previous print; credit growing faster than deposits — banks fund the difference elsewhere.
-6. **10-year G-sec yield — 7.45%** (30 Oct 2026). +0.08 pp over 28 days; what the market charges the government to borrow for ten years.
+6. **10-year G-sec yield — 7.21%** (6 Nov 2026). -0.19 pp over 28 days; what the market charges the government to borrow for ten years.
 
-**Also · USD/INR — 95.25** (30 Oct 2026). −1.36 (−1.4%) in 28 days; rupees per US dollar, the rupee firmer on the month.
+**Also · USD/INR — 94.14** (6 Nov 2026). −0.88 (−0.9%) in 28 days; rupees per US dollar, the rupee firmer on the month.
 
-Nothing here is real-time: the oldest prints this note leans on are WPI inflation (41 days); CPI inflation (41 days); Bank credit growth (26 days).
+Nothing here is real-time: the oldest prints this note leans on are WPI inflation (44 days); Bank credit growth (29 days); CPI inflation (13 days).
 
 Every figure is traceable to an RBI table: the dashboard draws the series, the API serves it, and the build fails rather than publish a short table. → https://mayankmohan1992.github.io/india-macro-war-room/
 
-`dataset_sha256 6c20b6dea7f5…` · source: RBI DBIE · MIT
+`dataset_sha256 601327549ff6…` · source: RBI DBIE · MIT
